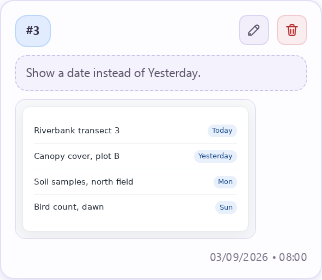
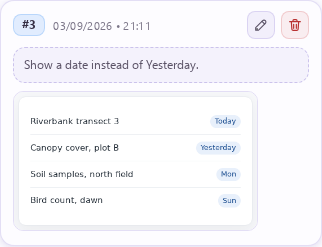
docs: describe the phone the last three branches built (#14)
* docs: describe the phone the last three branches built
* chore(widget): say the last comment in english

diff --git a/uxnote-tool/uxnote.js b/uxnote-tool/uxnote.js
@@ -4808,7 +4808,7 @@
   }
 
   function buildFilename() {
-    // Construit un nom de fichier lisible : titre/host + date + heure (sans secondes)
+    // Builds a readable filename: title or host, then the date and the time without seconds
     const now = new Date();
     const pad = (n) => String(n).padStart(2, '0');
     const date = `${pad(now.getDate())}-${pad(now.getMonth() + 1)}-${now.getFullYear()}`;

diff --git a/README.md b/README.md
@@ -5,7 +5,7 @@
 A fork of [UxNote](https://github.com/ninefortyonestudio/uxnote) by
 ninefortyonestudio, v1.0.0, MIT: a single-script annotation bar for mockups and
 websites. One script tag on a page, and reviewers highlight text, pin elements,
-drag out regions, and leave numbered comments in the browser. The notes stay in
+frame regions, and leave numbered comments in the browser. The notes stay in
 the browser, or they live on a server you name, so a client, a product team, or
 a small review team reads the same set.
 
@@ -56,14 +56,18 @@ Then open <http://localhost:4173/>.
 - **JSON export and import.** Both are on by default, and each one switches
   off per site.
 - **A dark theme.** `auto` by default, following the system.
-- **Comment-first notes.** A note is one comment, written on a card parked
-  beside the toolbar. The panel starts closed.
+- **Comment-first notes.** A note is one comment. On a roomy window the card
+  parks beside the toolbar; on a small screen it rises from the bottom edge.
+  The panel starts closed.
 - **Single-page apps.** The widget follows `pushState`, so a route change
   without a document load draws the annotations of the route you reached.
 - **Fenced areas.** `data-uxnote-ignore` keeps the widget out of an area;
   `data-uxnote-allow` lets it into an element it would otherwise refuse.
+- **A layout for a small screen.** Under 640px wide or 480px tall the toolbar
+  carries five thumb-sized controls, and the panel, the comment prompt and the
+  dialogs become bottom sheets.
 
-![The toolbar: the uxnote-fork logo, the two highlight modes, the camera, the import and export buttons, and the panel toggle](assets/readme/toolbar.png)
+![The toolbar on a wide window: the uxnote-fork logo, the two highlight modes, the camera, the import and export buttons, and the panel toggle](assets/readme/toolbar.png)
 
 ## Install
 
@@ -83,9 +87,17 @@ Two tags for the region screenshots, snapdom first:
 Both files are assets of the `v2.1.0` release, and every release carries both.
 
 The three `is*` names and the three `colorFor*` names are plain attributes; the
-rest are `data-` attributes. Every option at once:
+rest are `data-` attributes.
+
+**The block below is a list of every attribute name, not a snippet to copy.**
+It puts each name and the shape of its value in one place. Copied whole it
+points the widget at a server on `http://localhost:8123` with the key
+`review-key` and mails to `team@example.com`, none of which exist. Take the
+lines you want.
 
 ```html
+<!-- Every attribute name, with a value that shows its shape. A reference,
+     not a starting point. -->
 <script src="https://github.com/Qu4tro/uxnote-fork/releases/download/v2.1.0/uxnote.min-v2.1.0.js"
   colorForHighlight="#4e9cf6"
   isBackdropVisible="true"
@@ -107,16 +119,23 @@ rest are `data-` attributes. Every option at once:
 | `colorForHighlight` | `#4e9cf6` | One colour for text and element highlights, and the region frame. |
 | `colorForTextHighlight` | the base colour | The text highlight. Set without `colorForHighlight` it becomes the base too, so the region frame follows it, and so does the element outline unless that has its own. |
 | `colorForElementHighlight` | the base colour | The element outline. Set without `colorForHighlight` it becomes the base too, so the region frame follows it, and so does the text highlight unless that has its own. |
-| `isBackdropVisible` | `true` | Dims the page behind the annotations. |
+| `isBackdropVisible` | `true` on a mouse, `false` where the pointer is coarse | Dims the page behind the annotations. On a phone the bar is a strip and the page is the whole screen, so the dimmer costs contrast for nothing; naming it brings it back. |
 | `isToolVisibleAtFirstLaunch` | `true` | Shows the toolbar on the first visit. |
-| `isToolOnTopAtLaunch` | `false` | Starts the toolbar at the top instead of the bottom. |
-| `data-mailto` | empty | The recipient of the mail handoff. It does nothing while `data-mail-export` is `false`. |
-| `data-json-export` | `true` | `false` removes the export button. The export writes every annotation of the site and asks nothing first. |
-| `data-json-import` | `true` | `false` removes the import button, its dialog, and its list of imported files. |
-| `data-mail-export` | `true` | `false` removes the mail button and the handoff behind it. Independent of `data-json-export`. |
+| `isToolOnTopAtLaunch` | `false` | Starts the toolbar at the top instead of the bottom. The control that moves it afterwards is on a wide window only, so on a small screen this is the way to ask for the top. |
+| `data-mailto` | empty | The recipient of the mail handoff. It does nothing while `data-mail-export` is `false`. The handoff is on a wide window only. |
+| `data-json-export` | `true` | `false` removes the export control. The export writes every annotation of the site and asks nothing first. The control is in the toolbar on a wide window and in the panel head on a small screen. |
+| `data-json-import` | `true` | `false` removes the import button, its dialog, and its list of imported files. The button is on a wide window only; an annotation imported earlier is drawn either way. |
+| `data-mail-export` | `true` | `false` removes the mail button and the handoff behind it. Independent of `data-json-export`. The button is on a wide window only. |
 | `data-server-url` | unset | The base URL of the server that stores the annotations. Unset means `localStorage`. |
 | `data-server-api-key` | empty | Sent as `X-Uxnote-Key` on every request. Empty sends no header. |
 | `data-theme` | `auto` | `auto` follows the system theme and changes with it, `reverse-auto` takes the other side of it, and `light` and `dark` hold one. |
+
+**Write the word on an option that takes `true` or `false`.** Those options
+read `true`, `1`, `yes` and `on`, and `false`, `0`, `no` and `off`, in any
+case. Anything else falls back to the default, and an attribute written with
+no value at all carries the empty string — so `data-json-export`,
+`data-json-export=""` and `data-json-export="nope"` all leave the export
+switched on. Switching one off is `data-json-export="false"`.
 
 The page has a say too. The widget does not annotate inside a `<dialog>`, an
 element with `popover`, or an element with `role="dialog"`, `role="menu"`,
@@ -187,14 +206,18 @@ A note can be a picture of a region of the page. Load
 [snapdom](https://github.com/zumerlab/snapdom) before the widget, on the same
 page, and the toolbar offers a camera beside the two other capture modes.
 
-Press the camera and drag to frame a region. Release the button and the comment
-prompt opens, the way it does for a highlight or an element. Escape stops, and
-so does the `Cancel` button on the hint. Write
+With a mouse, press the camera and drag to frame a region. Release the button
+and the comment prompt opens, the way it does for a highlight or an element.
+Escape stops, and so does the `Cancel` button on the hint. Write
 a comment and the region becomes an annotation: a numbered marker and a frame on
 the page, a thumbnail on its card. The picture is taken while the comment is
 written, from a copy of the page snapdom renders without the widget's own
 interface: it carries no toolbar, no panel and no marker, and nothing on the page
-moves while it is taken.
+moves while it is taken. There is no drag where the pointer is coarse; one press
+takes the view, and **On a touch screen** below describes it.
+
+Pressing the thumbnail opens the picture full screen. Escape closes it, and so
+does the button in its corner.
 
 With a server the picture travels to it as a PNG, and the annotation keeps the
 address the server answers with. With no server the picture rides on the
@@ -207,6 +230,46 @@ goes up as a PNG on that later attempt, before the annotation that points at
 it, so nothing carries a base64 document to the server.
 
 ![A panel card for a region note: the number, the comment, and the thumbnail of the framed region](assets/readme/screenshot-card.png)
+
+## On a small screen
+
+The widget asks two questions and keeps them apart. How much room the window
+has decides the layout: `(max-width: 640px)` or `(max-height: 480px)`. What
+kind of pointer is driving decides the gestures and the size of what they have
+to land on: `(pointer: coarse) and (hover: none)`. A phone in landscape is
+wider than 640px and still a phone, and a narrow desktop window is not one.
+Both are watched, so a rotation rebuilds the toolbar rather than only moving
+it. What the room decides is below; what the pointer decides is in **On a touch
+screen**.
+
+**The toolbar carries five controls**, each 48px, in one row that neither
+wraps nor scrolls: hide, highlight text, annotate an element, capture, notes.
+Four without snapdom, which is what the camera needs. The wordmark is hidden,
+and the tooltips are not drawn where nothing can hover to open them.
+
+**Import and the top/bottom toggle are not there.** An import needs the file on
+the device, and the bar belongs in thumb reach at the bottom, which leaves the
+toggle no second answer. Annotations imported earlier are still drawn; only the
+dialog that manages the files is gone, and `isToolOnTopAtLaunch="true"` still
+puts the bar at the top.
+
+**Export moves to the panel head**, beside delete-all. The file goes to the
+share sheet where the browser offers one, and to the same download a wide
+window uses where it does not. Neither asks anything first. The mail button is
+on a wide window only: a `mailto:` carries the whole document in a URL, the
+first long comment overruns it, and a share sheet is where a phone hands a file
+over anyway.
+
+**The panel, the comment prompt and the dialogs rise from the bottom edge.**
+Each is a sheet with a drag handle that dismisses it on a drag down, a close
+button of its own, and at most 85% of the viewport, clear of the toolbar. The
+contents scroll inside the sheet and the page is held still underneath, then
+let go when the sheet closes. The comment prompt is opaque here, where on a
+wide window it is translucent until it is pointed at.
+
+**A narrow or a short desktop window gets the sheets too**, and keeps
+everything a mouse can use: the tooltips, and the outline that previews an
+element before it is pinned.
 
 ## On a touch screen
 
@@ -229,20 +292,33 @@ framing gesture is the phone's own scroll: put the page where you want it, then
 press. The note carries the same `rect` a dragged frame would, so the marker,
 the frame and the panel behave the same either way.
 
+Everything a finger has to land on is sized for one: the markers on the page,
+the edit and delete buttons on a card, and the buttons of every dialog. Every
+field is 16px, at every width, under which iOS Safari zooms the page in when
+the field takes focus and does not zoom back out. The page dimmer is off unless
+`isBackdropVisible` asks for it by name.
+
 ## A note is a comment
 
-The card asks for the comment alone. It parks beside the toolbar, so the area
-under review stays visible, and it is translucent until the pointer is over it.
-Enter saves, Shift+Enter breaks a line, Escape cancels, and a click on the page
-keeps the text.
+The card asks for the comment alone. On a roomy window it parks beside the
+toolbar, so the area under review stays visible, and a pointer that can hover
+finds it translucent until that pointer is over it. Both of those are drawn
+only where a pointer can hover: without one the card would never come back, and
+the page would read straight through the comment being written. Enter saves,
+Shift+Enter breaks a line, Escape cancels, and a click on the page keeps the
+text.
+
+Where the layout is compact the card is a sheet on the bottom edge instead:
+opaque, with a handle and a close button of its own.
 
 The panel starts closed. The toolbar button opens it, and so does a marker on
-the page or a card.
+the page or a card. On a small screen the panel is a sheet, and pressing a note
+in the list closes it and carries the page to that note.
 
 An annotation written by an earlier release keeps its `author` and its
 `priority`. The widget shows neither.
 
-![The comment card beside the toolbar, with a comment typed and the Cancel and Save buttons](assets/readme/comment-card.png)
+![The comment card on a wide window, parked beside the toolbar, with a comment typed and the Cancel and Save buttons](assets/readme/comment-card.png)
 
 ## Theme
 
@@ -279,10 +355,13 @@ hash shows every route's annotations on every route.
 ## Develop
 
 ```sh
-npm test         # Playwright smoke test against the demo page at /
+npm test         # Playwright: the desktop smoke test and four phone projects
 npm run build    # minified script in dist/
 npm start        # the repository on http://localhost:4173/
 ```
+
+`UXNOTE_TEST_PORT` moves the test server off 4173, which is what a second
+checkout already listening there needs.
 
 CI runs the syntax check, the build, and the smoke test on every pull request
 and on `main`. Every pull request gets a preview of the site, and its URL is
@@ -299,7 +378,7 @@ minified widget, its source map, and `snapdom.min.js`.
 - `server/` — the reference server and its own demo page. Not published.
 - `assets/` — the logo and the README screenshots.
 - `scripts/` — build, serve, and site.
-- `test/` — the smoke test.
+- `test/` — the desktop smoke test and the mobile checks.
 - `PROTOCOL.md` — the server contract.
 - `dist/` — build output. Not committed.
 

diff --git a/CHANGELOG.md b/CHANGELOG.md
@@ -14,6 +14,8 @@ All notable changes to this project will be documented in this file.
 - A preview on the element picker. On a coarse pointer the first tap outlines the element under the finger and names it, with `Wider` and `Narrower` to walk the chain it sits in and `Pin here` to commit. Wider is also the answer to a fat finger: start anywhere inside a block and climb to the block.
 - A guard on the screenshot render. snapdom draws the whole document before the crop comes out of it, and a long page on a slow device could sit on it with no end; the wait is bounded now and the toast says which of the two happened.
 - Touch checks on the four phone viewports, driving real touch events: a release mid-selection commits nothing, a multi-word selection reaches the prompt whole, the element preview stands before the commit and the picker stops at the page, one tap of the camera writes an annotation carrying the viewport rect, and the bars follow the toolbar to whichever edge it is on.
+- An `On a small screen` section in the README, for the half of the mobile work that answers to the room rather than to the pointer: the five controls the toolbar carries, the import and top/bottom controls it leaves out, export in the panel head as one share or download, and the panel, the comment prompt and the dialogs as sheets on the bottom edge. A narrow or short desktop window is named there too.
+- The rule every `true` / `false` option follows, in the README. `true`, `1`, `yes`, `on` and `false`, `0`, `no`, `off` are read and anything else falls back to the default -- and an attribute written with no value carries the empty string, so `data-json-export` on its own leaves the export switched on. Turning one off means writing the word.
 ### Changed
 - The toolbar carries five controls on a compact layout -- hide, highlight text, annotate an element, capture, notes -- each 48px, in one row, with no scrolling strip. Import and the top/bottom toggle are left out there, and export moves to the panel head beside delete-all.
 - Fixed chrome is placed with `left` and `right` insets and sized in percent rather than `vw`. A host page that overflows horizontally makes the containing block wider than `100vw`, which used to size the toolbar by one box and position it against another. The rules meant to anchor the bar to the edges on a small screen now carry enough specificity to apply at all.
@@ -26,11 +28,14 @@ All notable changes to this project will be documented in this file.
 - Export takes the share sheet where the layout is compact and the browser has one, and the download the widget already used where it has not. A wide window keeps the download, and keeps the mail button beside it: a `mailto:` carries the whole document in a URL, the first long comment overruns it, and a share sheet is where a handoff belongs on a phone anyway.
 - The comment card's `opacity: 0.55` and the `:hover` that undid it are drawn only where a pointer can hover. Without one the card never came back, and the page read straight through the comment being written.
 - The sheet surfaces are named in the `color-scheme: dark` selector list, so the native controls they hold follow the theme rather than rendering light on dark.
-- A narrow window on a desktop gets the sheets too, and keeps its tooltips and its parked comment card. How much room there is and what kind of pointer is driving are separate questions.
+- A narrow window on a desktop gets the sheets too -- its comment prompt among them -- and keeps everything a mouse can use: the tooltips, and the outline that previews an element before it is pinned. How much room there is and what kind of pointer is driving are separate questions.
 - The camera takes the visible viewport in one tap on a coarse pointer, and the drag overlay is not built there at all. The framing gesture is the page's own scroll. The annotation carries the same `rect` a dragged frame would, so markers, frames and the hop to a note are unchanged.
 - A highlight is committed from the `Add note` bar rather than from a release where the pointer is coarse. A mouse still commits on the release.
 - An element is committed from `Pin here` rather than from the tap that found it where the pointer is coarse. A mouse still previews on hover and commits on the click.
 - The mode tip names the gesture the form factor actually takes, and stands down while a capture bar holds the same strip of screen.
+- The README says which of its sentences describe a mouse alone: the comment card parked beside the toolbar and translucent until it is pointed at, the drag that frames a region, and the mail button beside the export.
+- The block of every attribute at once is labelled as a reference of names rather than a snippet to start from. Copied whole it pointed the widget at a server on `http://localhost:8123` with the key `review-key` and mailed to `team@example.com`.
+- The Options table says where each control lives once the layout is compact, and that the page dimmer starts off where the pointer is coarse.
 ### Fixed
 - The visibility button was built with a French label and tooltip before the first sync replaced them.
 - Region capture did nothing at all on a touch screen. `selectRegion()` bound mouse events only, so a touch drag framed nothing, opened no prompt, and left the reviewer inside an overlay whose hint named the Escape key.
@@ -39,6 +44,7 @@ All notable changes to this project will be documented in this file.
 - Annotating in element mode no longer calls the widget's own toolbar a popup. Its controls were never a target, and saying so on every press of them was noise.
 - The element outline is drawn to what the page actually shows of the element. Outlining a row of the demo page's pricing table, which sits in a scroller narrower than itself, took the document from 375px to 459px -- and fixed chrome is positioned against that width, so the toolbar went with it.
 - A store with no room left says so. The write failed silently, and a capture on a coarse pointer is a whole viewport rather than a hand-framed corner of one, so the room runs out sooner.
+- The README's screenshot of a panel card showed a card the widget had already stopped drawing when the file was committed: the timestamp under the thumbnail rather than beside the number. Retaken at the same framing.
 
 ## [2.1.0] - 2026-09-03
 ### Added
